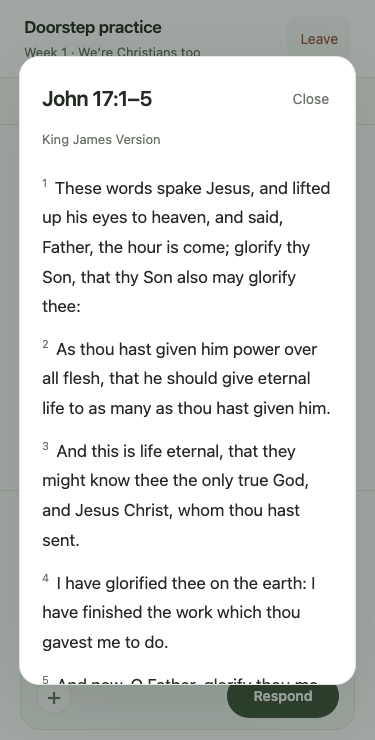
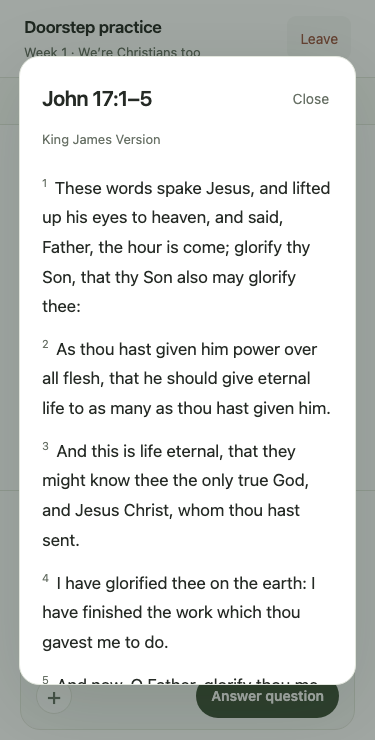
more fix

Changed region(s): [[0.4987, 0.9014, 0.8507, 0.9946]]

diff --git a/src/components/conversation/ConversationView.tsx b/src/components/conversation/ConversationView.tsx
@@ -52,7 +52,7 @@ interface Draft {
  * The doorstep conversation: a shared thread rebuilt from the server's
  * history, and a private composer. The missionary prepares a line and speaks
  * it aloud; the Christian answers in their own words or picks a suggested
- * reply. Only the send button ("Ask question", "Respond"…) commits anything.
+ * reply. Only the send button ("Ask question", "Answer question"…) commits anything.
  */
 export function ConversationView({
   content,
@@ -201,15 +201,15 @@ export function ConversationView({
   } else if (awaitingAnswer) {
     hasDraft = !!christianText
     caption = hasDraft ? 'Your next line' : 'Your response'
-    note = hasDraft ? 'Say it aloud, then tap Respond' : 'Try to answer on your own first'
+    note = hasDraft ? 'Say it aloud, then tap Answer question' : 'Try to answer on your own first'
     text = christianText ?? 'Respond aloud in your own words…'
     sendLabel = 'Send response'
-    sendText = 'Respond'
+    sendText = 'Answer question'
     canSend = true
   } else {
     caption = 'Conversation'
     note = 'Speak together aloud'
-    sendText = 'Respond'
+    sendText = 'Answer question'
     text = !progress.started
       ? 'Your visitor will introduce themselves first…'
       : progress.responding

diff --git a/tests/e2e/conversation.spec.ts b/tests/e2e/conversation.spec.ts
@@ -396,7 +396,7 @@ for (const viewport of VIEWPORTS) {
       expect(send.gapToComposerEdge).toBeLessThan(24)
     }
     await expect(missionary.page.locator('button[class*="composeSend"]')).toHaveText('Ask question')
-    await expect(christian.page.locator('button[class*="composeSend"]')).toHaveText('Respond')
+    await expect(christian.page.locator('button[class*="composeSend"]')).toHaveText('Answer question')
     // The send button stays reachable beside the choice card.
     await expect(speakButton(missionary.page, 'Send question')).toBeInViewport()
     await missionary.page.getByRole('button', { name: /^More directions/ }).click()
